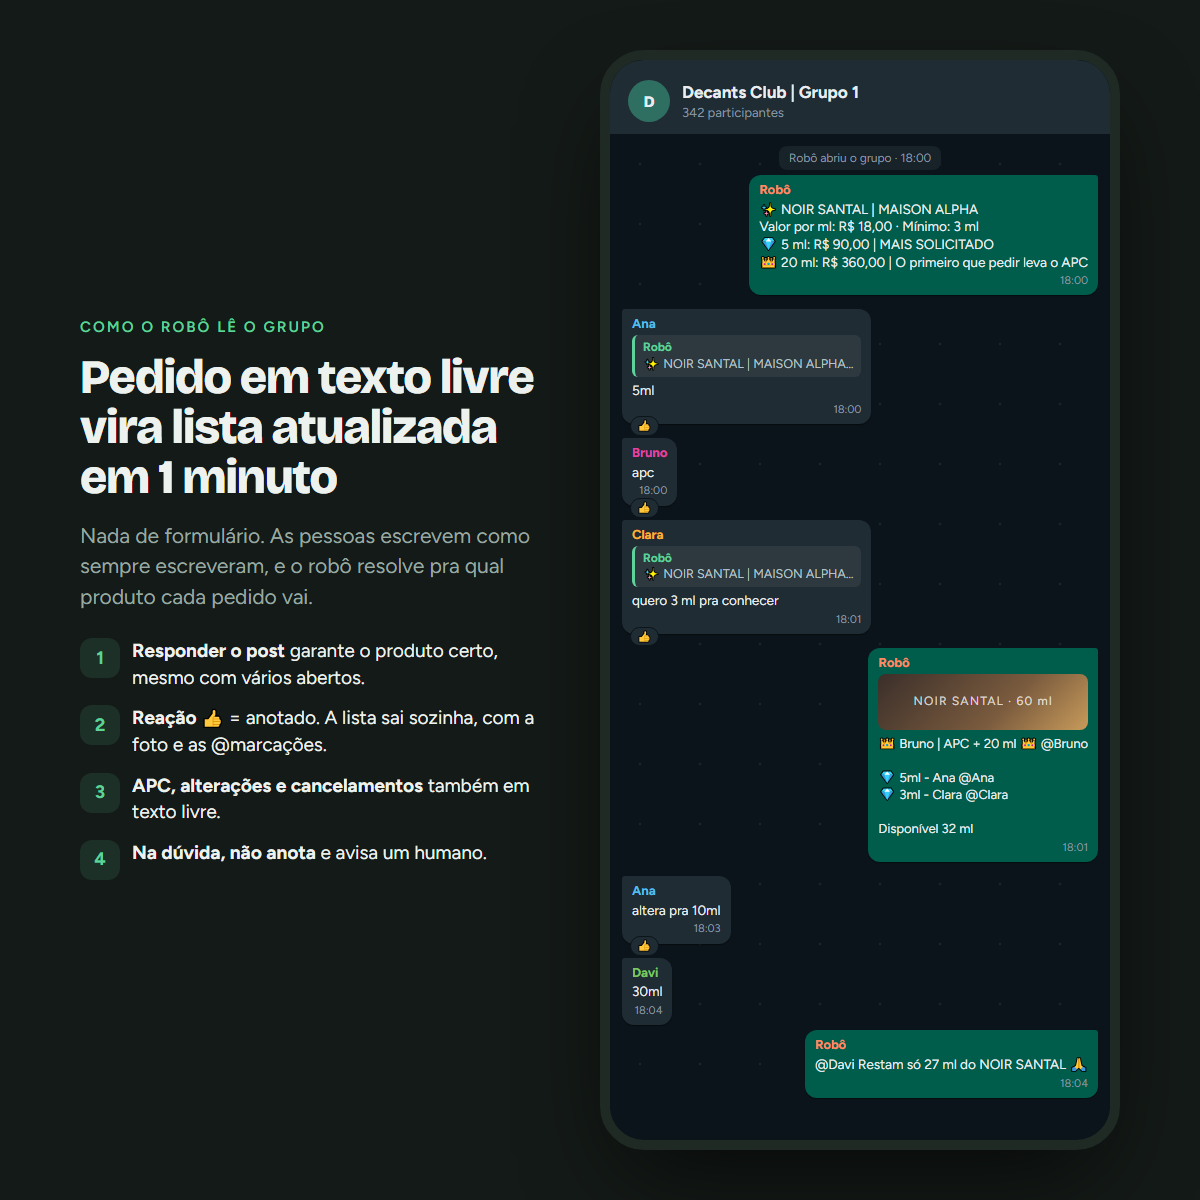
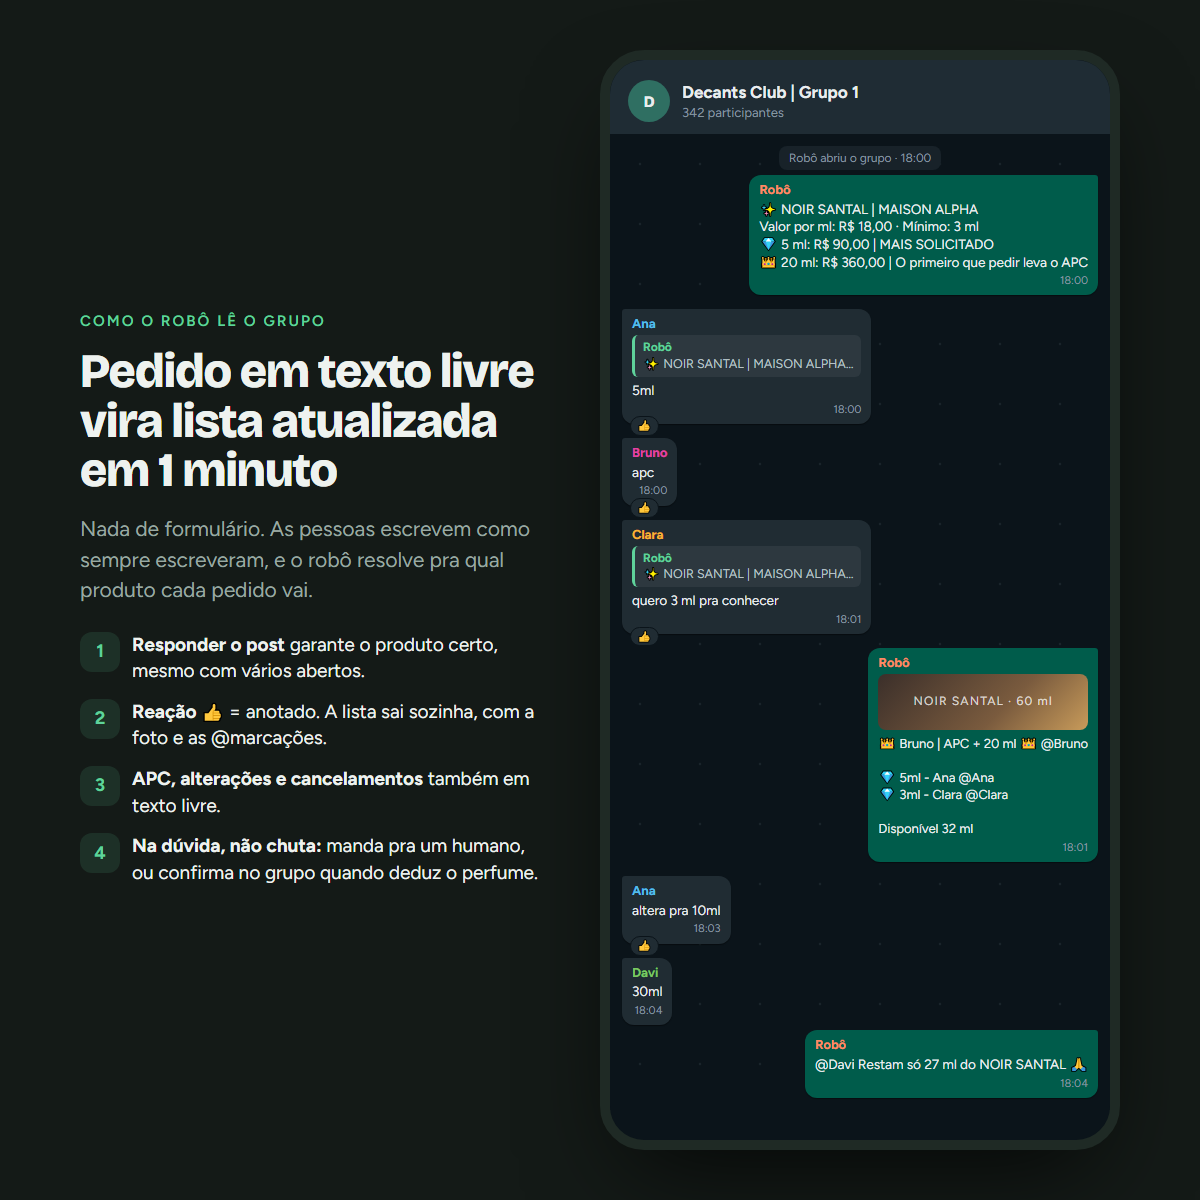
Na duvida nao chuta: README e imagem da conversa alinhados ao comportamento atual

Changed region(s): [[0.0617, 0.2467, 0.4625, 0.74]]

diff --git a/docs/img-conversa-en.html b/docs/img-conversa-en.html
@@ -41,7 +41,7 @@ html,body{margin:0;width:1200px;height:1200px;background:#141A17;font-family:"Fi
       <div><span class="ic">1</span><span><b>Replying to the post</b> guarantees the right product, even with several open.</span></div>
       <div><span class="ic">2</span><span><b>A 👍 reaction</b> means booked. The list goes out on its own, with the photo and @mentions.</span></div>
       <div><span class="ic">3</span><span><b>First-come items, changes and cancellations</b> in free text too.</span></div>
-      <div><span class="ic">4</span><span><b>When unsure, it does not book</b> and flags a human.</span></div>
+      <div><span class="ic">4</span><span><b>No silent guesses:</b> it flags a human, or confirms in the group when it infers the product.</span></div>
     </div>
   </div>
   <div class="phone">

diff --git a/docs/img-conversa.html b/docs/img-conversa.html
@@ -41,7 +41,7 @@ html,body{margin:0;width:1200px;height:1200px;background:#141A17;font-family:"Fi
       <div><span class="ic">1</span><span><b>Responder o post</b> garante o produto certo, mesmo com vários abertos.</span></div>
       <div><span class="ic">2</span><span><b>Reação 👍</b> = anotado. A lista sai sozinha, com a foto e as @marcações.</span></div>
       <div><span class="ic">3</span><span><b>APC, alterações e cancelamentos</b> também em texto livre.</span></div>
-      <div><span class="ic">4</span><span><b>Na dúvida, não anota</b> e avisa um humano.</span></div>
+      <div><span class="ic">4</span><span><b>Na dúvida, não chuta:</b> manda pra um humano, ou confirma no grupo quando deduz o perfume.</span></div>
     </div>
   </div>
   <div class="phone">

diff --git a/README.md b/README.md
@@ -81,8 +81,9 @@ products it runs, the team types none of them. Leftovers posted by hand are stil
   matched the admin's exactly or within one item in **81%** of the list snapshots.
 - **Observe mode first.** Before it was allowed to speak, the bot read the real group without sending anything,
   feeding a review queue (`Aprender`).
-- **Fail closed.** When in doubt (a reply to an unrelated image, a product that isn't open, an order after a restart)
-  the bot does not book the order. It notifies an admin instead. A wrong list costs more than a missed one.
+- **No silent guesses.** When in doubt (a reply to an unrelated image, a product that isn't open) the bot does not
+  book the order and notifies an admin. When it has to infer the product (a bare "5ml" with several open), it books
+  it and confirms in the group right away, so the customer can correct it. A wrong list costs more than a missed one.
 - **Every production incident became a test.** Examples: a first-come item size missing from the price table, two
   openings one hour apart closing the group on top of each other, a customer's intent word parsed as their name.
 

diff --git a/README.pt-BR.md b/README.pt-BR.md
@@ -82,8 +82,9 @@ perfumes que ele cuida, a equipe não digita nenhuma. Sobras postadas à mão co
   igual à do admin ou com 1 item de diferença em **81%** das fotos da lista.
 - **Primeiro só observando.** Antes de ganhar permissão para falar, o robô leu o grupo real sem mandar nada,
   alimentando a fila de revisão (`Aprender`).
-- **Na dúvida, não anota.** Resposta a uma imagem sem relação, produto que não está aberto, pedido depois de um
-  reinício: o robô não anota e avisa um admin. Uma lista errada custa mais que um pedido perdido.
+- **Na dúvida, não chuta.** Resposta a uma imagem sem relação ou produto que não está aberto: o robô não anota e avisa
+  um admin. Quando precisa deduzir o perfume (um "5ml" solto com vários abertos), anota e confirma no grupo na hora,
+  pra pessoa corrigir. Uma lista errada custa mais que um pedido perdido.
 - **Todo incidente em produção virou teste.** Exemplos: tamanho do APC fora da tabela de preços, duas aberturas com
   1 hora de diferença fechando o grupo uma em cima da outra, palavra de intenção do cliente lida como nome.
 
